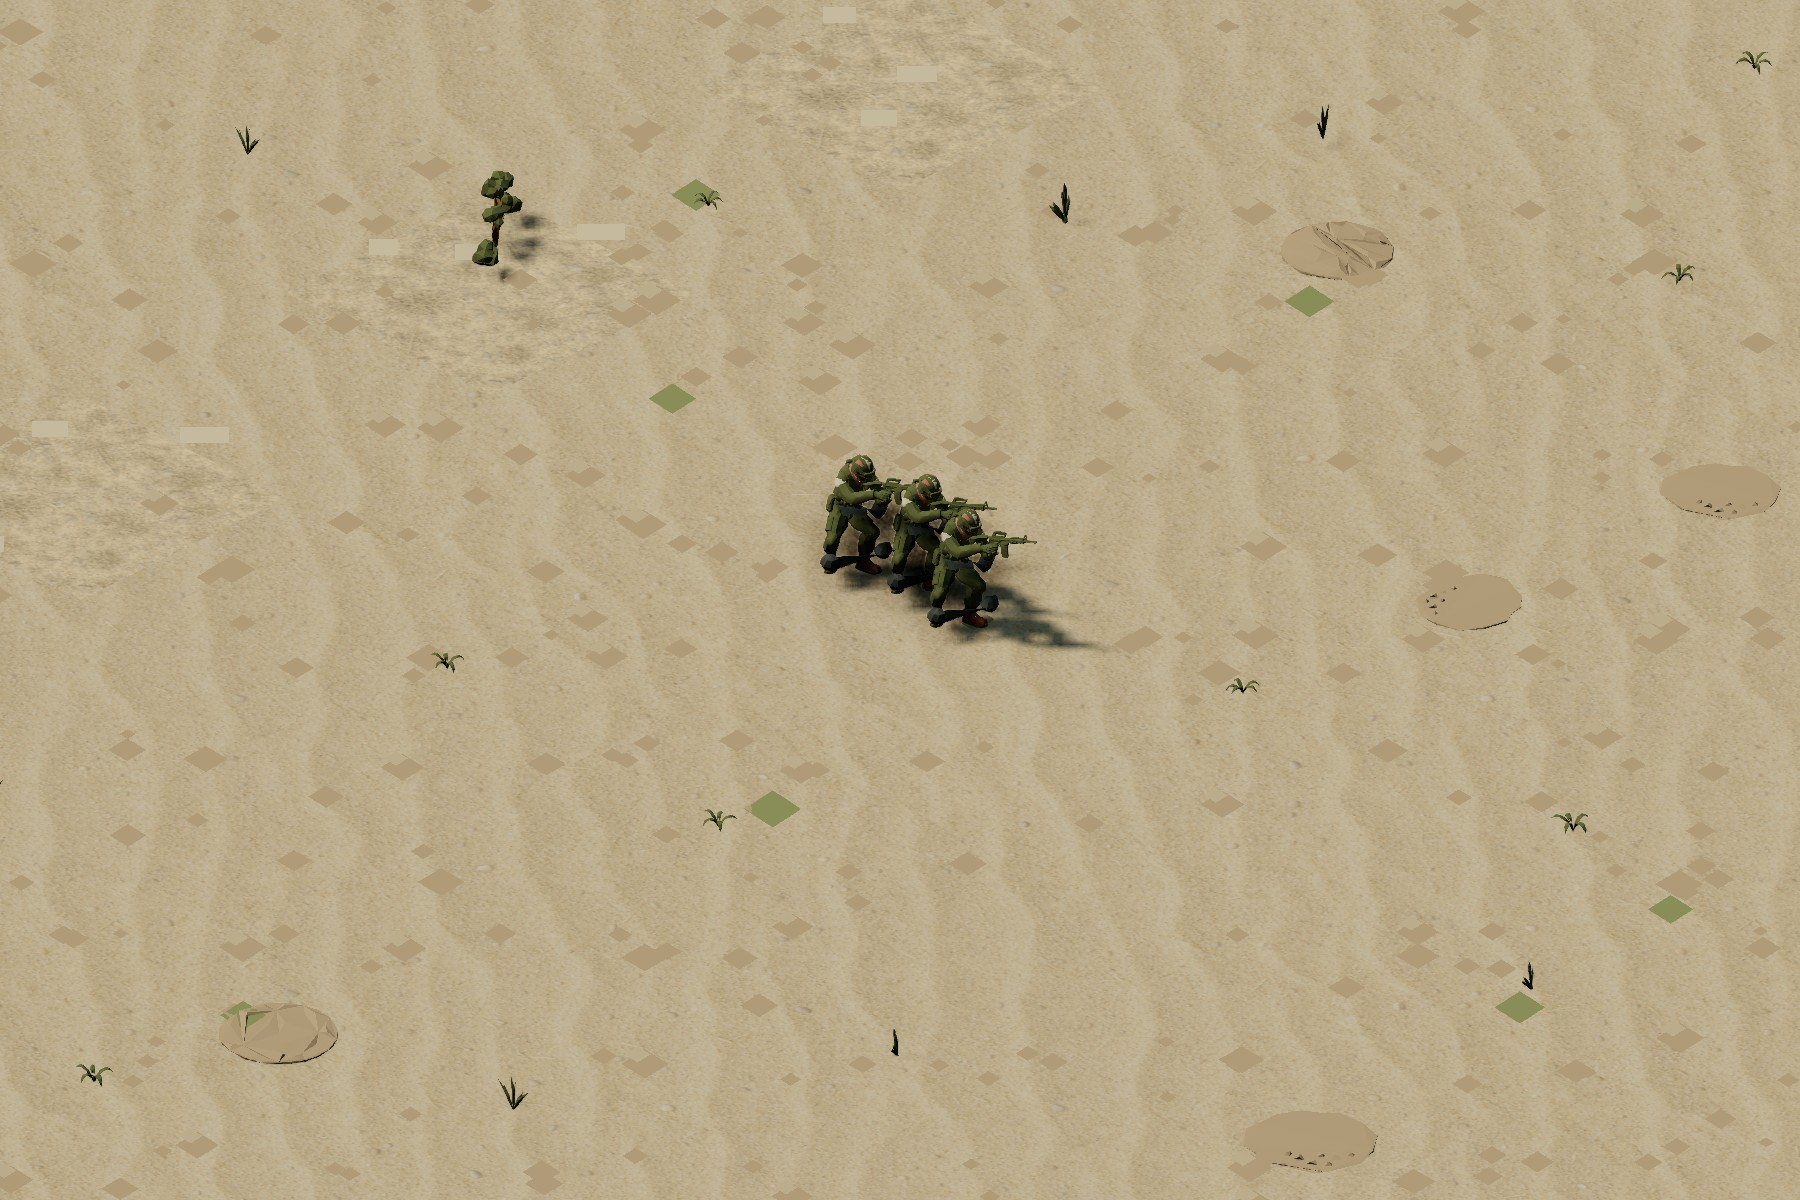
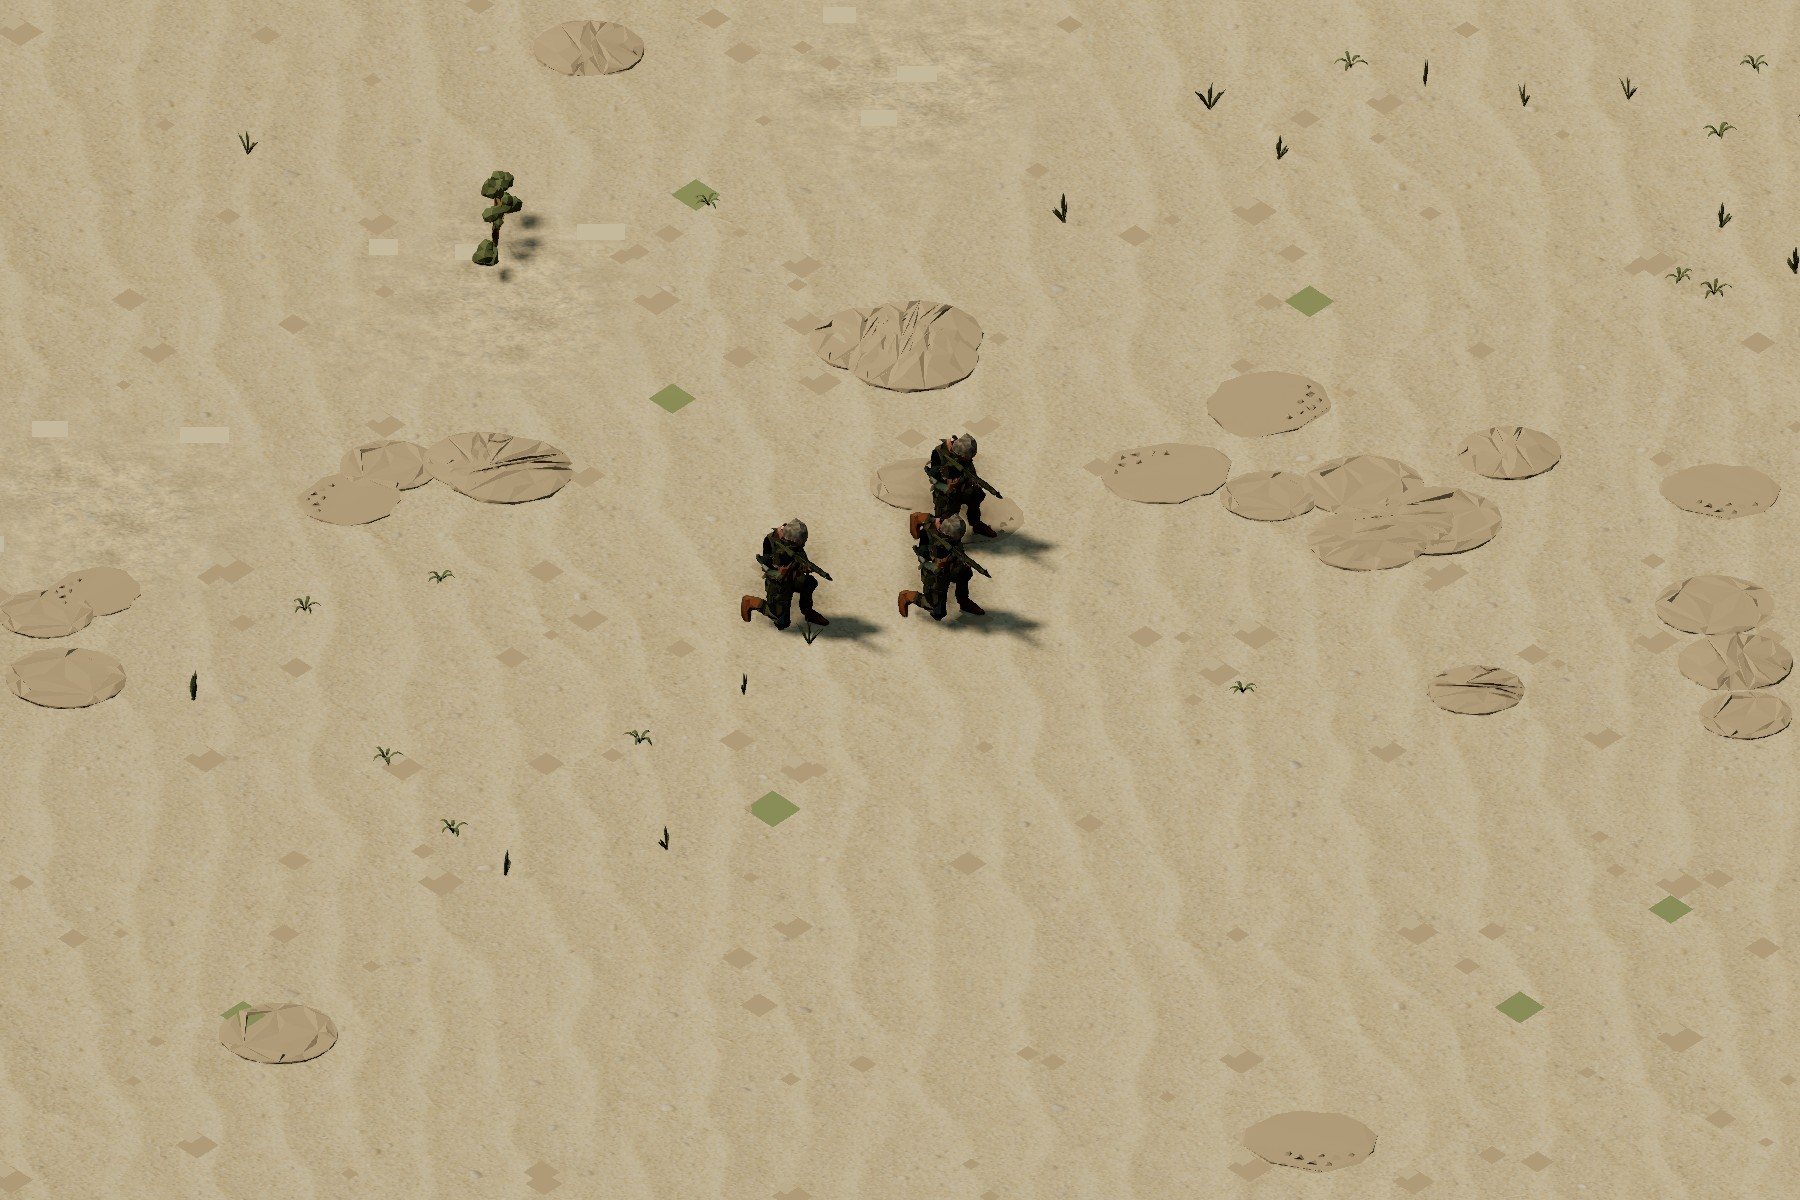
fix(art): garage plates re-shot for the new infantry
The garage plates for inf_squad, yahalom_squad, at_team, demo_squad and
recon_zikit still showed the figures from before #403/#406. Re-shot one
process per unit (`pnpm plates:units -- --only=<id> --port=5291`, each its
own dev server and its own browser, SwiftShader as the manifest records),
after two fixes to the plate tool (tools/src/perf/unit-plates.ts):

- The near-full-frame extent was foliage SWAY, not the unit. Sway runs on
  the sim clock (terrain/sway.ts) and the capture steps the sim between the
  empty-ground reference and the unit's frame, so every grass tuft in the
  clip moved and the extent was the tufts' bounding box. First re-shot with
  the tool as it stood: 1315-1441 x 778-787 px on all five (23,487 differing
  px for inf_squad -- the tufts add few pixels and a huge box). With the
  `wind` debug layer hidden for both frames: 162-317 x 142-220, against
  143-280 x 163-240 for the old figures.
- A stationary man takes a knee (the sim's brace, #402), and `step(2)`
  caught him halfway down -- a mid-drop frame of kneelIn. The tool now
  steps on while the unit's brace reads DROPPING: 2 more ticks for each of
  the five, so each plate shows the settled kneel. A non-bracer stays at
  BRACE_NONE and takes no extra tick, so no vehicle plate's protocol moves.
- Music off before boot (`lions.settings` with `version: 1` -- settings.ts
  returns its defaults, music on, for an object without it).

Extents (manifest.json): inf_squad 317x220, yahalom_squad 271x142,
[…]

diff --git a/tools/src/perf/unit-plates.ts b/tools/src/perf/unit-plates.ts
@@ -229,7 +229,7 @@ interface LionsWindow {
       height: number;
       blocked: Uint8Array;
       entityCount: number;
-      state: { alive: Uint8Array; side: Uint8Array };
+      state: { alive: Uint8Array; side: Uint8Array; brace?: Uint8Array };
       unitTypes: { id: string }[];
       spawn(typeIdx: number, side: number, x: number, y: number): number;
       removeFromPlay(id: number): void;
@@ -471,6 +471,16 @@ async function runCapture(): Promise<void> {
     // file's own top comment) -- a timeout here is a false failure, not a
     // real one, the capture just needs more wall clock.
     page.setDefaultTimeout(180000);
+    // Music off before boot -- the lead's rule for every test browser. The
+    // `version: 1` is load-bearing: `settings.ts` returns its defaults
+    // (music on) for an object without it.
+    await page.addInitScript(() => {
+      try {
+        window.localStorage.setItem('lions.settings', JSON.stringify({ version: 1, audio: { music: 0 } }));
+      } catch {
+        /* storage blocked: the page boots with its defaults */
+      }
+    });
     page.on('console', (msg) => {
       if (msg.type() === 'error' || msg.type() === 'warning') console.log(`  page ${msg.type()}: ${msg.text()}`);
     });
@@ -494,6 +504,14 @@ async function runCapture(): Promise<void> {
 
     await page.evaluate(() => (window as unknown as LionsWindow).__lions.renderer.setDebugLayerVisible('overlays', false));
     await page.evaluate(() => (window as unknown as LionsWindow).__lions.renderer.setDebugLayerVisible('fog', false));
+    // Foliage at rest. Sway runs on the SIM clock (`terrain/sway.ts`), and
+    // every capture below steps the sim between the empty-ground reference
+    // and the unit's own frame -- so with sway on, every grass tuft in the
+    // clip moved between the two, and the extent was the bounding box of the
+    // tufts rather than of the unit: 1315-1441 x 778-787 px on all five
+    // infantry plates re-shot on 6 Oct, against 143-280 x 163-240 before
+    // sway shipped. Hiding `wind` drives `uSwayAmp` to 0, both frames.
+    await page.evaluate(() => (window as unknown as LionsWindow).__lions.renderer.setDebugLayerVisible('wind', false));
 
     // Strip EVERY unit `showSandbox` fields by default (`sandbox-force.ts`'s
     // `SANDBOX_KDF` and `SANDBOX_ENEMY`) before anything else runs -- both
@@ -653,6 +671,22 @@ async function runCapture(): Promise<void> {
     for (const id of wanted) {
       const entity = await spawnAt(id);
       await page.evaluate(() => (window as unknown as LionsWindow).__lions.step(2));
+      // A man who has stopped takes a knee (the sim's brace, PR #402), and
+      // two ticks catches him HALFWAY down -- the drop is KNEEL_DROP_TICKS.
+      // Step on, one tick at a time, until he is no longer dropping, so the
+      // plate shows a settled pose. A unit that does not halt to fire stays
+      // at BRACE_NONE (0) and takes no extra tick: every vehicle plate's
+      // protocol is unchanged.
+      const settleTicks = await page.evaluate((e) => {
+        const L = (window as unknown as LionsWindow).__lions;
+        let n = 0;
+        while (L.sim.state.brace?.[e] === 1 && n < 40) {
+          L.step(1);
+          n++;
+        }
+        return n;
+      }, entity);
+      if (settleTicks > 0) console.log(`[${TAG}] ${id}: ${settleTicks} more tick(s) to settle the brace`);
       await page.evaluate(() => (window as unknown as LionsWindow).__lions.renderer.frame(1, 0));
 
       // Retried, not a bare call: measured under SwiftShader with several
